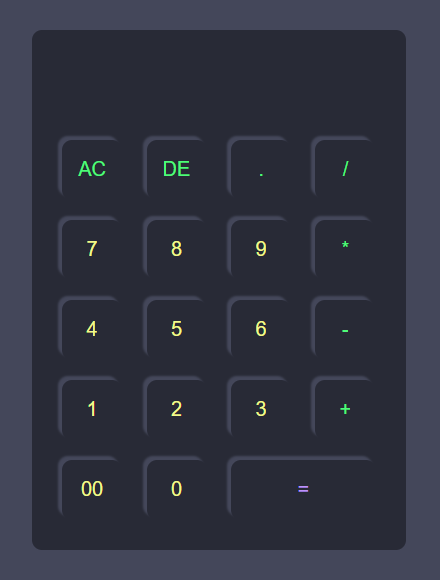
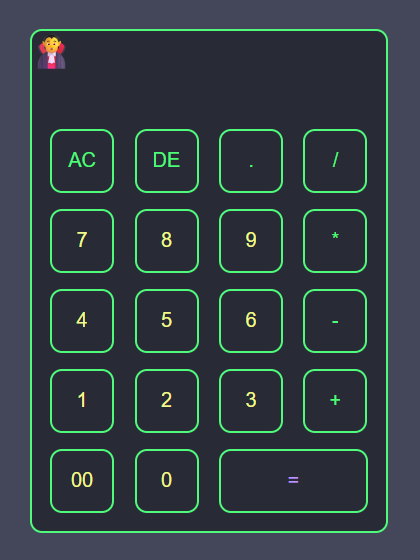
0.3

diff --git a/index.html b/index.html
@@ -22,27 +22,27 @@
                     <input type="button" value="/" onclick="display.value += '/' "class="operator">
                 </div>
                 <div>
-                    <input type="button" value="7" onclick="display.value += '7' ">
-                    <input type="button" value="8" onclick="display.value += '8' ">
-                    <input type="button" value="9" onclick="display.value += '9' ">
+                    <input type="button" value="7" onclick="display.value += '7' "class="button">
+                    <input type="button" value="8" onclick="display.value += '8' "class="button">
+                    <input type="button" value="9" onclick="display.value += '9' "class="button">
                     <input type="button" value="*" onclick="display.value += '*' "class="operator">
                 </div>
                 <div>
-                    <input type="button" value="4" onclick="display.value += '4' ">
-                    <input type="button" value="5" onclick="display.value += '5' ">
-                    <input type="button" value="6" onclick="display.value += '6' ">
+                    <input type="button" value="4" onclick="display.value += '4' "class="button">
+                    <input type="button" value="5" onclick="display.value += '5' "class="button">
+                    <input type="button" value="6" onclick="display.value += '6' "class="button">
                     <input type="button" value="-" onclick="display.value += '-' "class="operator">
                 </div>
                 <div>
-                    <input type="button" value="1" onclick="display.value += '1' ">
-                    <input type="button" value="2" onclick="display.value += '2' ">
-                    <input type="button" value="3" onclick="display.value += '3' ">
+                    <input type="button" value="1" onclick="display.value += '1' "class="button">
+                    <input type="button" value="2" onclick="display.value += '2' "class="button">
+                    <input type="button" value="3" onclick="display.value += '3' "class="button">
                     <input type="button" value="+" onclick="display.value += '+' "class="operator">
                 </div>
                 <div>
-                    <input type="button" value="00" onclick="display.value += '00' ">
-                    <input type="button" value="0" onclick="display.value += '0' ">
-                    <input type="button" value="=" onclick="display.value = eval(display.value)"class="equal">
+                    <input type="button" value="00" onclick="display.value += '00' "class="button">
+                    <input type="button" value="0" onclick="display.value += '0' "class="button">
+                    <input type="button" value="=" onclick="display.value = eval(display.value)"class="equal button">
 
                 </div>
             </form>

diff --git a/style.css b/style.css
@@ -18,6 +18,12 @@
     background: #282a36;
     padding: 20px;
     border-radius: 10px;
+    box-shadow: 0 0 0 2px #50fa7b;
+    background-image: url('Dracula.png'); 
+    background-size: 40px 40px; 
+    background-repeat: no-repeat; 
+    background-position: top left; 
+    padding: 10px; 
 }
 .calculator form input{
     border: 0;
@@ -25,7 +31,7 @@
     width: 60px;
     height: 60px;
     border-radius: 10px;
-    box-shadow: -4px -4px 2px rgba(68, 71, 90);
+    box-shadow: 0 0 0 2px #50fa7b; 
     background: transparent;
     font-size: 20px;
     color: #f1fa8c;
@@ -52,4 +58,18 @@ form input.equal{
 form input.operator{
     color: #50fa7b;
 
+}
+
+.operator:hover {
+    background: #44475a;
+    color:#50fa7b; 
+    transform: scale(1.1); 
+    transition: all 0.2s ease;
+}
+
+.button:hover {
+    background: #44475a;
+    color:#50fa7b; 
+    transform: scale(1.1); 
+    transition: all 0.2s ease;
 }
